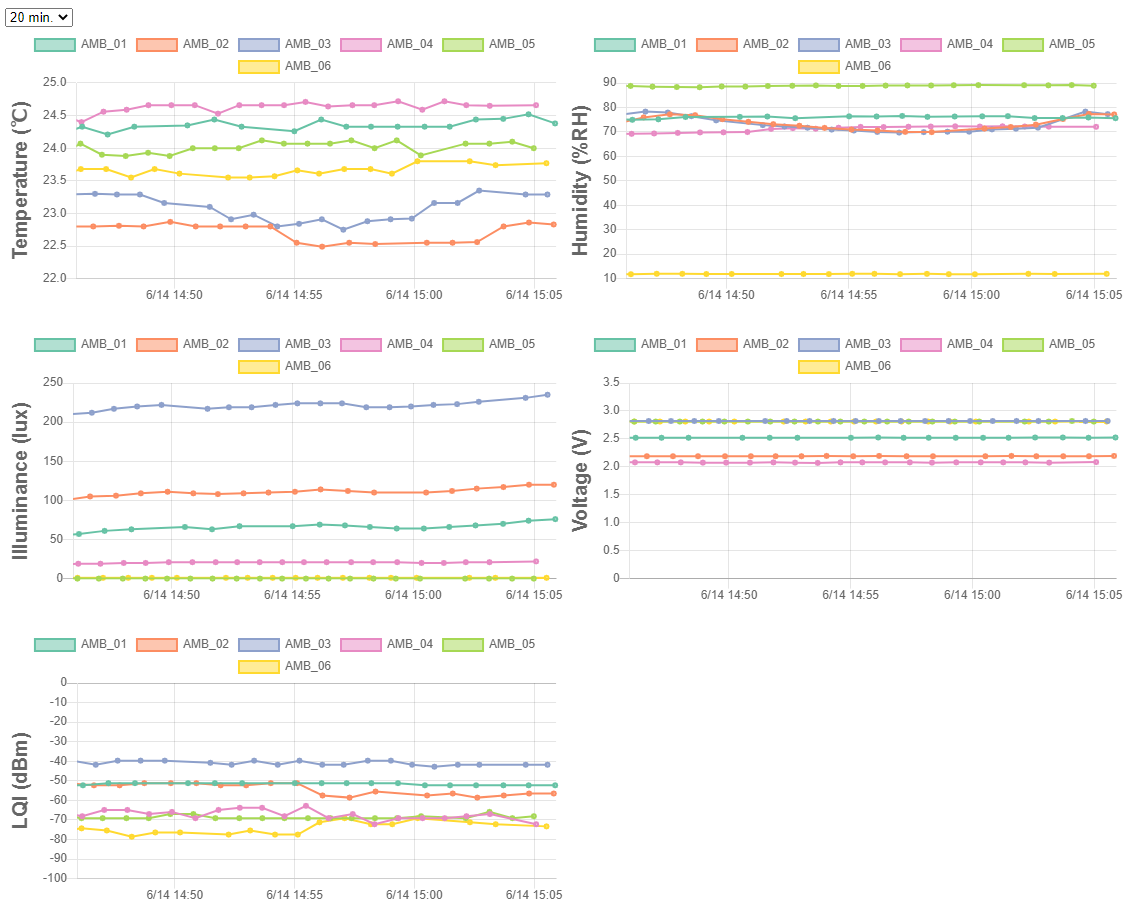
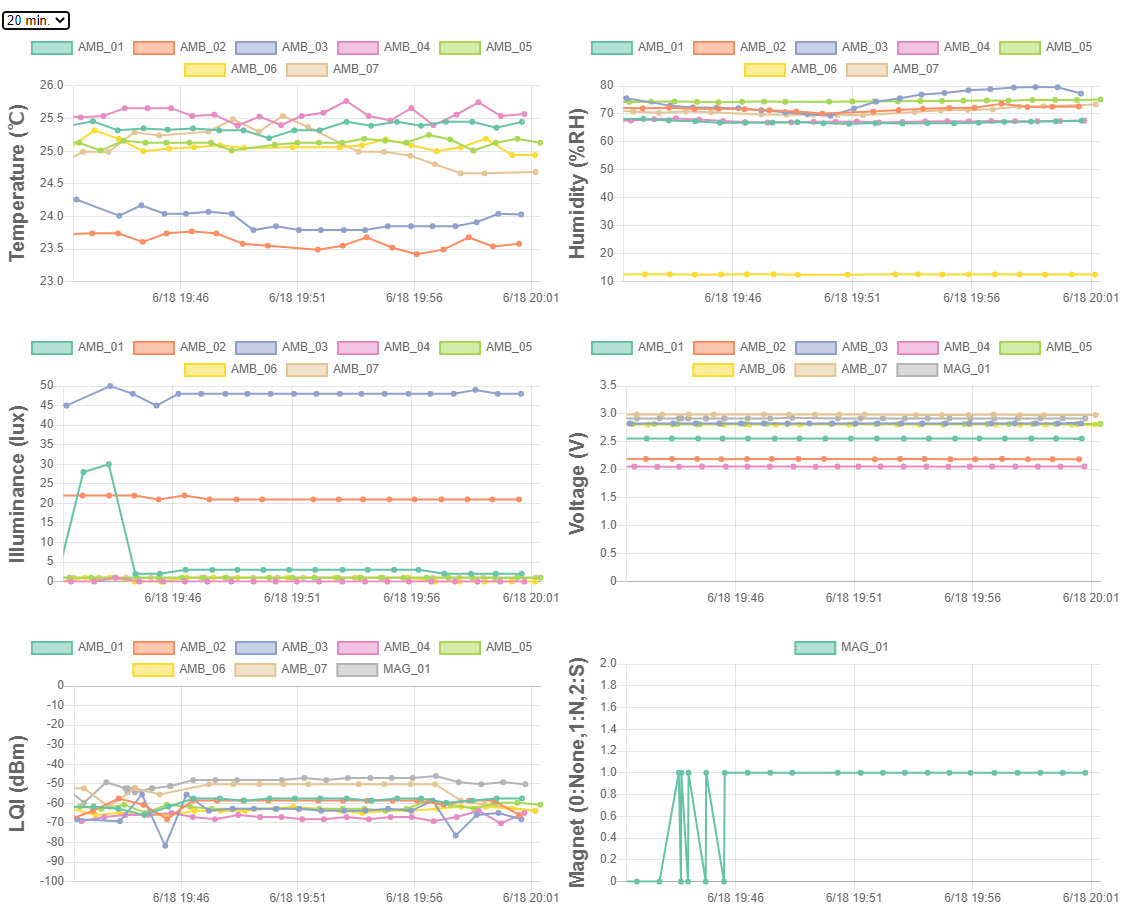
Support open/close pal

diff --git a/viewer/index.html b/viewer/index.html
@@ -27,6 +27,7 @@
         <div><canvas id="chart3"></canvas></div>
         <div><canvas id="chart4"></canvas></div>
         <div><canvas id="chart5"></canvas></div>
+        <div><canvas id="chart6"></canvas></div>
     </div>
 </body>
 <script>
@@ -40,6 +41,7 @@ $(window).on('load', function() {
     setChart('chart3','Illuminance','Illuminance (lux)', 0, undefined);
     setChart('chart4','Voltage','Voltage (V)', 0,3.5);
     setChart('chart5','Lqi','LQI (dBm)', -100,0);
+    setChart('chart6','Magnet','Magnet (0:None,1:N,2:S)', 0,2);
 
     //  MQTT Broker IP Address, MQTT over Websocket Port, duration (ms), repeat timer (ms) 
     var duration = $('#select-1 option:selected').val() * 1000;

diff --git a/README.md b/README.md
@@ -1,5 +1,5 @@
 # MQTT bridge for TWELITE PAL
-TWELITE PAL (親機) の出力を MQTT に変換します。[環境センサーPAL](https://mono-wireless.com/jp/products/twelite-pal/sense/amb-pal.html)のみ対応しています。サーバーに配置しなくてもセンサ出力を確認できる HTML のビューアーもついています。
+TWELITE PAL (親機) の出力を MQTT に変換します。[環境センサーPAL](https://mono-wireless.com/jp/products/twelite-pal/sense/amb-pal.html)と[開閉センサーPAL](https://mono-wireless.com/jp/products/twelite-pal/sense/openclose-pal.html)に対応しています。サーバーに配置しなくてもセンサ出力を確認できる HTML のビューアーもついています。
 
 ## 例
 |トピック|メッセージ|
@@ -9,6 +9,7 @@ TWELITE PAL (親機) の出力を MQTT に変換します。[環境センサーP
 |Illuminance|{"Id":"AMB_02","Value":100}|
 |Voltage|{"Id":"AMB_02","Value":2.195}|
 |Lqi|{"Id":"AMB_02","Value":-59.7}|
+|Magnet|{"Id":"MAG_01","Value":2}|
 
 - 参考: https://twitter.com/ksasao/status/1271816152935657472
 
